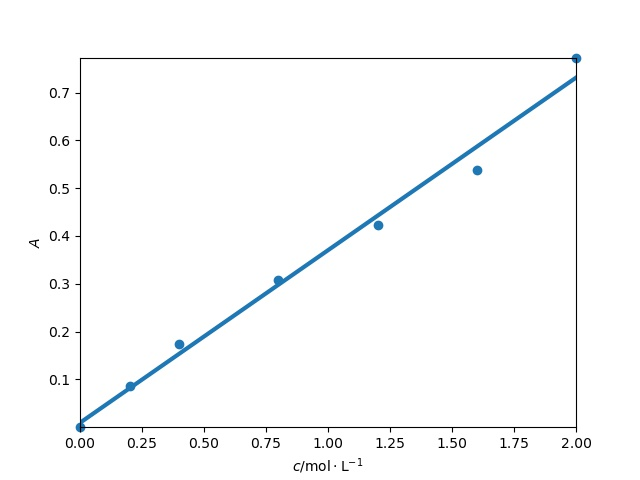
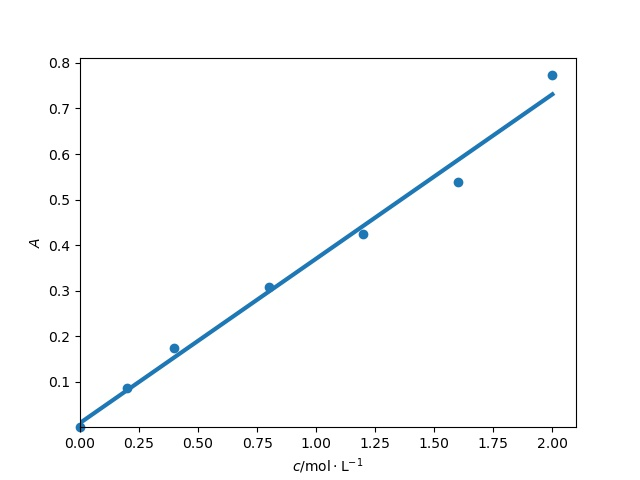
update format

diff --git a/simple/标准曲线/untitled.py b/simple/标准曲线/untitled.py
@@ -17,11 +17,11 @@ predict=[i*reg.slope+reg.intercept for i in x]
 plt.plot(x,predict,linewidth=3)
 
 #设定坐标范围
-plt.xlim((min(x),max(x)))
-plt.ylim((min(y),max(y)))
+plt.xlim(left=min(x))
+plt.ylim(bottom=min(y))
 
 #设置坐标轴
 plt.xlabel(r'$\mathit{c} / \mathrm{ mol\cdot L^{-1}}$')
 plt.ylabel(r'$A$')
-#plt.savefig('fig.jpg') #保存图片
+plt.savefig('fig.jpg') #保存图片
 plt.show()
